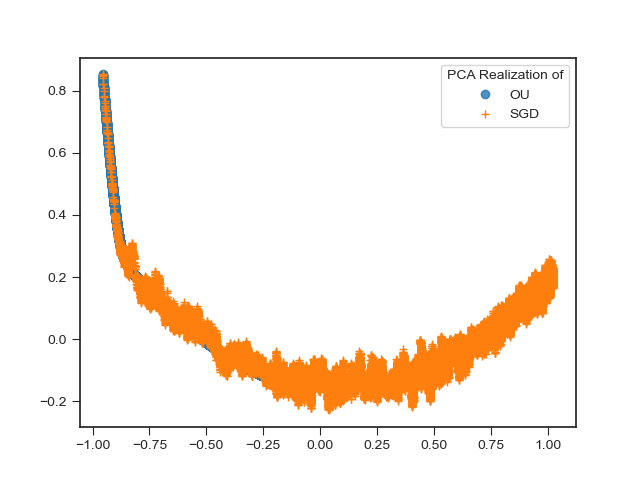
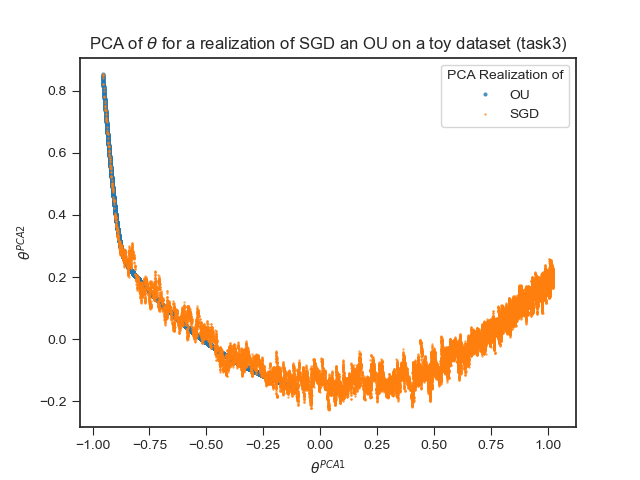
Final

diff --git a/tasks/task03.py b/tasks/task03.py
@@ -136,9 +136,12 @@ print("-" * 20, "Computing PCA", "-" * 20)
 pca = PCA(2)
 Xt_pca, params_pca = np.split(pca.fit_transform(np.concatenate((Xt, param_history))), 2)
 print("-" * 20, "Plot results", "-" * 20)
-plt.plot(*Xt_pca[:, :2].T, "o", label="OU", alpha=0.8)
-plt.plot(*params_pca[:, :2].T, "+", label="SGD")
+plt.plot(*Xt_pca[:, :2].T, "o", label="OU", alpha=0.7, markersize=2)
+plt.plot(*params_pca[:, :2].T, "+", label="SGD", alpha=0.7, markersize=2)
 plt.legend(["OU", "SGD"], title="PCA Realization of", frameon=True)
+plt.xlabel(r"$\theta^{PCA 1}$")
+plt.ylabel(r"$\theta^{PCA 2}$")
+plt.title(r"PCA of $\theta$ for a realization of SGD an OU on a toy dataset (task3)")
 plt.savefig(FIG_DIR/"OUvsSGD_PCA.png")
 plt.show()
 # End of task

diff --git a/tasks/task02.py b/tasks/task02.py
@@ -126,5 +126,8 @@ print("------Plot results------")
 plt.plot(*Xt_pca.T, label="OU", alpha=0.5)
 plt.plot(*params_pca.T, label="SGD", alpha=0.7)
 plt.legend(frameon=True, title="PCA realization of")
+plt.xlabel(r"$\theta^{PCA 1}$")
+plt.ylabel(r"$\theta^{PCA 2}$")
+plt.title(r"PCA of $\theta$ for a realization of SGD an OU on a toy dataset (task3)")
 plt.savefig(FIG_DIR/"OUvsSGD_PCA.png")
 plt.show()
